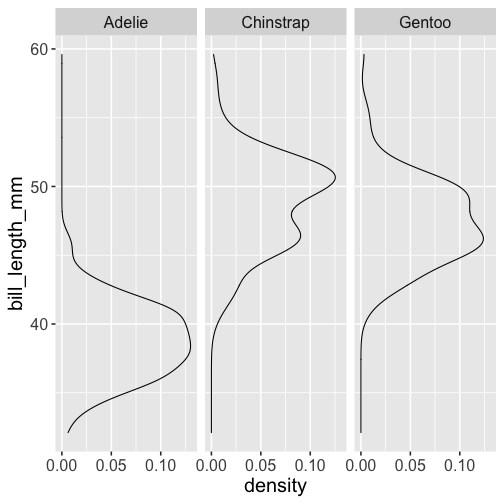
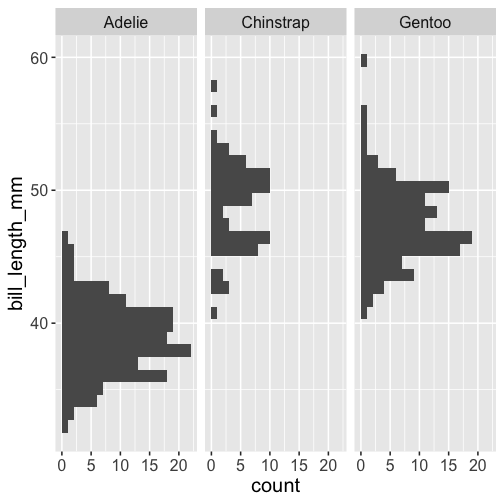
add week 2

diff --git a/schedule.html b/schedule.html
@@ -250,9 +250,92 @@
 		
 		</div>
 		
-<button class="accordion">Week 2 &#9679; Oct 4 - 8</button>
-<div class="panel"> <i class="fas fa-hard-hat" aria-hidden="true"
-      title="A helmet icon" style="color:black;"></i> Under Construction</div>
+<button class="accordion">Week 2 &#9679; Oct 4 - 8 &#9679; Data Visualization</button>
+<div class="panel"> 
+		
+
+	<br>
+		
+	<table class="table-striped text-left table-bordered" align = "center">
+    <thead>
+    <th style="width:  3%"></th>
+      <th style="width:  30%"></th>
+      <th style="width:  40%">Notes</th>
+      <th style="width:  8%">Links</th>
+      <th style="width:  15%">Due</th>
+      </thead>
+	  
+	  
+	  <tr>
+		  <td><input type="checkbox" /></td>
+		  <td>Data Visualization: Part I</td>
+		  <td></td>
+		  <td>
+		  <a href="slides/week02/02a-data-viz.html"
+            target = "_blank"><i class="fas fa-chalkboard-teacher" aria-hidden="true"
+            title="External link"></i></a></td>
+		  <td></td>
+	  
+	  </tr>
+	  
+	  
+	  <tr>
+		  <td><input type="checkbox" /></td>
+		  <td>Data Visualization: Part I Quiz</td>
+		  <td></td>
+		  <td><a href="https://www.gradescope.com/courses/315178/assignments/1544232" target ="_blank"> <i class="fas fa-edit" aria-hidden="true"
+            title="External Link to Gradescope" target = "_blank"></i></a></td>
+		  <td>Oct 5, 11:59 pm</td>
+	  
+	  </tr>
+		
+		<tr>
+		  <td><input type="checkbox" /></td>
+		  <td>Data Visualization: Part II</td>
+		  <td></td>
+		  <td>
+		  <a href="slides/week02/02b-data-viz2.html"
+            target = "_blank"><i class="fas fa-chalkboard-teacher" aria-hidden="true"
+            title="External link"></i></a></td>
+		  <td></td>
+	  
+	  </tr>
+		
+		
+	  <tr>
+		  <td><input type="checkbox" /></td>
+		  <td>Data Visualization: Part II Quiz</td>
+		  <td></td>
+		  <td><a href="https://www.gradescope.com/courses/315178/assignments/1545887" target ="_blank"> <i class="fas fa-edit" aria-hidden="true"
+            title="External Link to Gradescope" target = "_blank"></i></a></td>
+		  <td>Oct 7, 11:59 pm</td>
+	  
+	  </tr>
+	  
+	  
+	  
+		
+	  
+    <tr>
+      <td><input type="checkbox" /></td>
+      <td>Homework 2</td>
+      <td>In the weekly repo.</td>
+      <td><a href="https://github.com/ics80-fa21" target ="_blank"> <i class="fa fa-github" aria-hidden="true"
+            title="External Link to Gradescope" target = "_blank"></i></a></td>
+      <td>Oct 11, 2:00 pm</td>
+    </tr>
+
+	  
+
+	  
+	  
+  </table>
+		<br>
+		
+		
+		
+		
+		</div>
 
 <button class="accordion">Week 3 &#9679; Oct 11 - 15
 </button>

diff --git a/slides/week02/02b-data-viz2.html b/slides/week02/02b-data-viz2.html
@@ -391,12 +391,10 @@ palette.colors(palette = "Okabe-Ito")
 ```
 
 ```
-        black        orange       skyblue 
-    "#000000"     "#E69F00"     "#56B4E9" 
-  bluishgreen        yellow          blue 
-    "#009E73"     "#F0E442"     "#0072B2" 
-   vermillion reddishpurple          gray 
-    "#D55E00"     "#CC79A7"     "#999999" 
+        black        orange       skyblue   bluishgreen        yellow 
+    "#000000"     "#E69F00"     "#56B4E9"     "#009E73"     "#F0E442" 
+         blue    vermillion reddishpurple          gray 
+    "#0072B2"     "#D55E00"     "#CC79A7"     "#999999" 
 ```
 
 [Okabe-Ito color palette](https://jfly.uni-koeln.de/color/) allows us to make figures that are colorblind friendly.
@@ -517,6 +515,11 @@ class: middle
 3. The plot type
 4. The message that the plot conveys.
 
+---
+
+class: middle
+
+Please complete the in-class activity provided to you in lecture notes.
     </textarea>
 <style data-target="print-only">@media screen {.remark-slide-container{display:block;}.remark-slide-scaler{box-shadow:none;}}</style>
 <script src="https://remarkjs.com/downloads/remark-latest.min.js"></script>

diff --git a/slides/week02/02a-data-viz.html b/slides/week02/02a-data-viz.html
@@ -867,6 +867,20 @@ class: middle
 
 .footnote[Note: Violin plots display densities, not counts!]
 ---
+
+class: middle
+
+.pull-left[
+&lt;img src="02a-data-viz_files/figure-html/unnamed-chunk-59-1.png" style="display: block; margin: auto;" /&gt;
+
+]
+
+.pull-right[
+&lt;img src="02a-data-viz_files/figure-html/unnamed-chunk-60-1.png" style="display: block; margin: auto;" /&gt;
+]
+
+.footnote[Note: Violin plots display densities, not counts!]
+---
 class: inverse middle
 
 .font75[Visualizing Two Numerical Variables]
@@ -890,7 +904,7 @@ ggplot(penguins,
 Warning: Removed 2 rows containing missing values (geom_point).
 ```
 
-&lt;img src="02a-data-viz_files/figure-html/unnamed-chunk-60-1.png" style="display: block; margin: auto;" /&gt;
+&lt;img src="02a-data-viz_files/figure-html/unnamed-chunk-62-1.png" style="display: block; margin: auto;" /&gt;
 
 ]
 

diff --git a/slides/week02/slide-style.css b/slides/week02/slide-style.css
@@ -134,7 +134,7 @@ h1,h2,h3, h4{
 .footnote{
     position: fixed;
     bottom: 10px;
-    font-size:8px;
+    font-size:14px;
     left:10%;
 
 }
